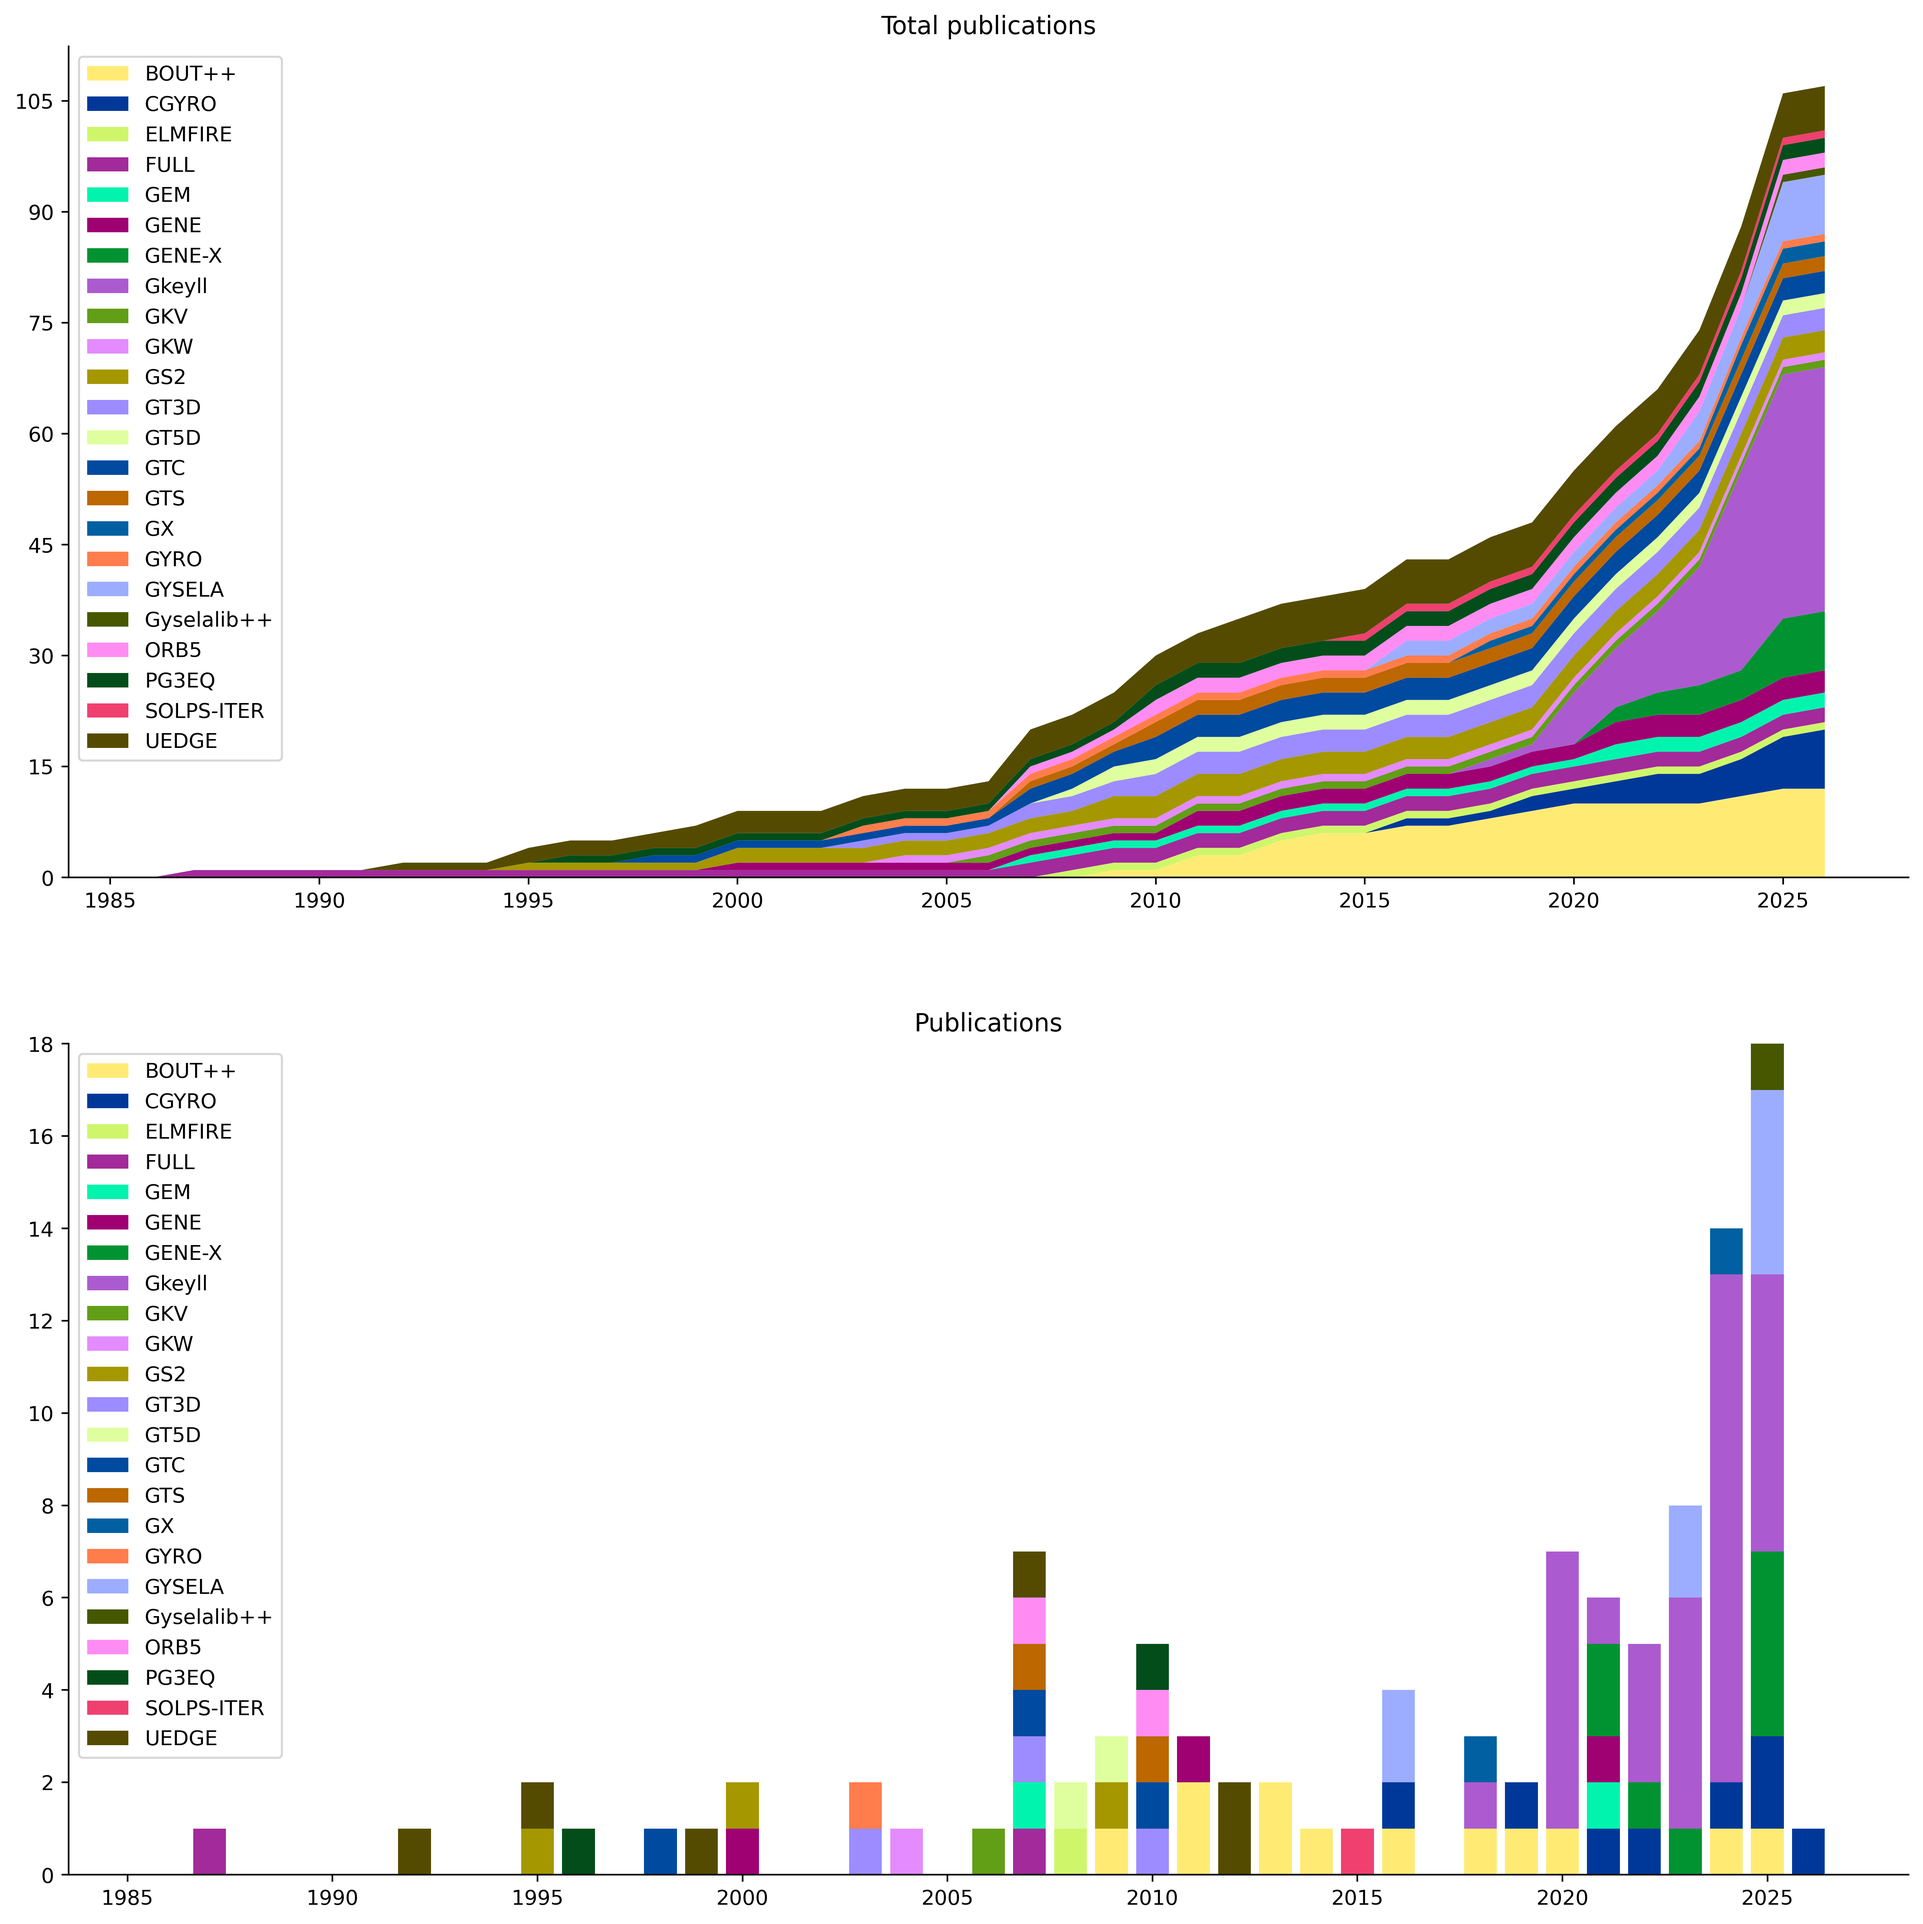
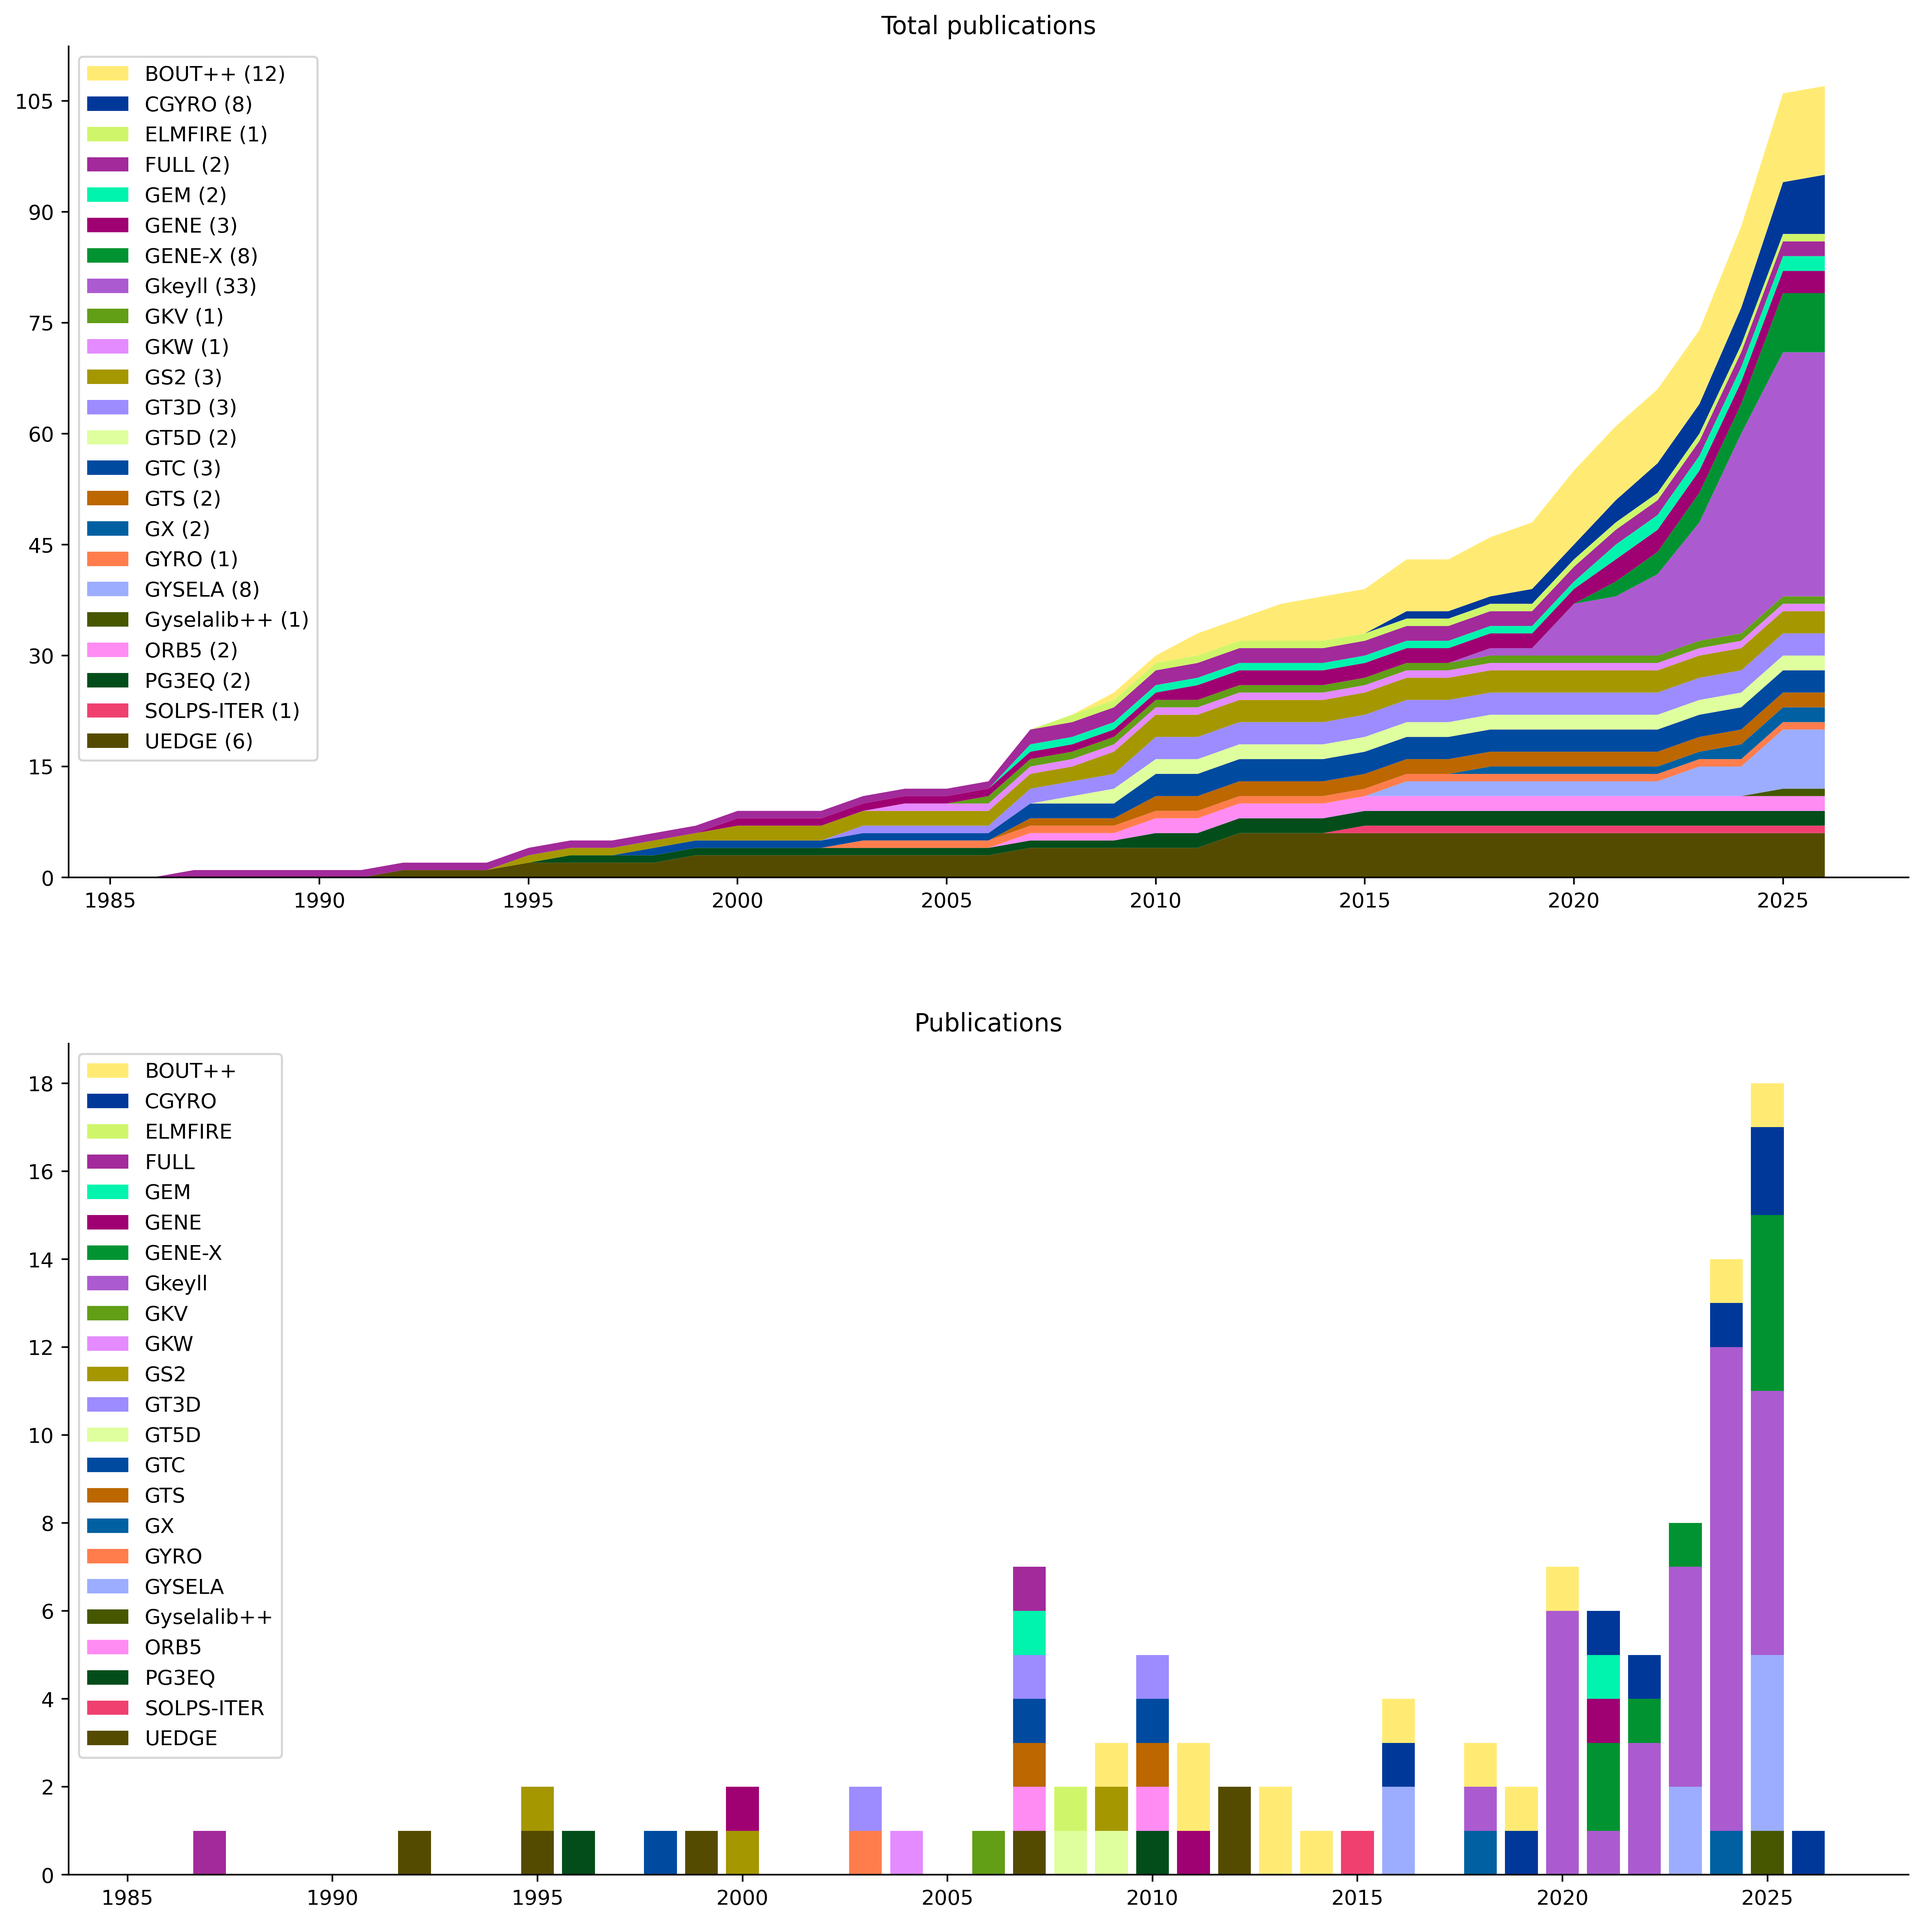
fix: stack order

diff --git a/build.py b/build.py
@@ -142,7 +142,7 @@ def build_figure_publications(data):
                 score[tag] = {}
     year_list = list(range(min(year_list) - 1, max(year_list) + 1))
 
-    score = dict(sorted(score.items(), key=lambda entry: entry[0].lower()))
+    score = dict(sorted(score.items(), key=lambda entry: entry[0].lower(), reverse=True))
     for tag in score.keys():
         score[tag] = {year: 0 for year in year_list}
         score_partial_sum[tag] = {year: 0 for year in year_list}
@@ -156,7 +156,6 @@ def build_figure_publications(data):
             for year in range(entry['year'], year_list[-1] + 1):
                 score_partial_sum[tag][year] += 1
 
-    figure = pyplot.figure(figsize=(16, 16))
     # reference: https://medialab.github.io/iwanthue/
     color_map = [
         '#ffeb74',
@@ -192,22 +191,29 @@ def build_figure_publications(data):
         '#dd394b',
         '#c96a7f',
     ]
+    color_map = color_map[:len(score.keys())]
+
+    figure = pyplot.figure(figsize=(16, 16))
 
     ax = figure.add_subplot(2, 1, 1)
     ax.set_title('Total publications')
     y = [value for value in score_partial_sum.values()]
     y = [list(value.values()) for value in y]
-    label_list = [key for key in score_partial_sum.keys()]
-    ax.set_prop_cycle(color=color_map)
+    label_list = [
+        f'{key} ({value[year_list[-1]]})'
+        for key, value in score_partial_sum.items()
+    ]
+    ax.set_prop_cycle(color=color_map[::-1])
     ax.stackplot(year_list, y, labels=label_list)
     ax.yaxis.set_major_locator(MaxNLocator(integer=True))
     ax.spines['top'].set_visible(False)
     ax.spines['right'].set_visible(False)
-    ax.legend()
+    handle, label = ax.get_legend_handles_labels()
+    ax.legend(handle[::-1], label[::-1])
 
     ax = figure.add_subplot(2, 1, 2)
     ax.set_title('Publications')
-    ax.set_prop_cycle(color=color_map)
+    ax.set_prop_cycle(color=color_map[::-1])
     bottom = numpy.zeros(len(year_list))
     for key, value in score.items():
         x, y = zip(*sorted(value.items()))
@@ -216,7 +222,8 @@ def build_figure_publications(data):
     ax.yaxis.set_major_locator(MaxNLocator(integer=True))
     ax.spines['top'].set_visible(False)
     ax.spines['right'].set_visible(False)
-    ax.legend()
+    handle, label = ax.get_legend_handles_labels()
+    ax.legend(handle[::-1], label[::-1])
 
     figure.savefig('figure/publications.png', dpi=400, bbox_inches='tight')
 
